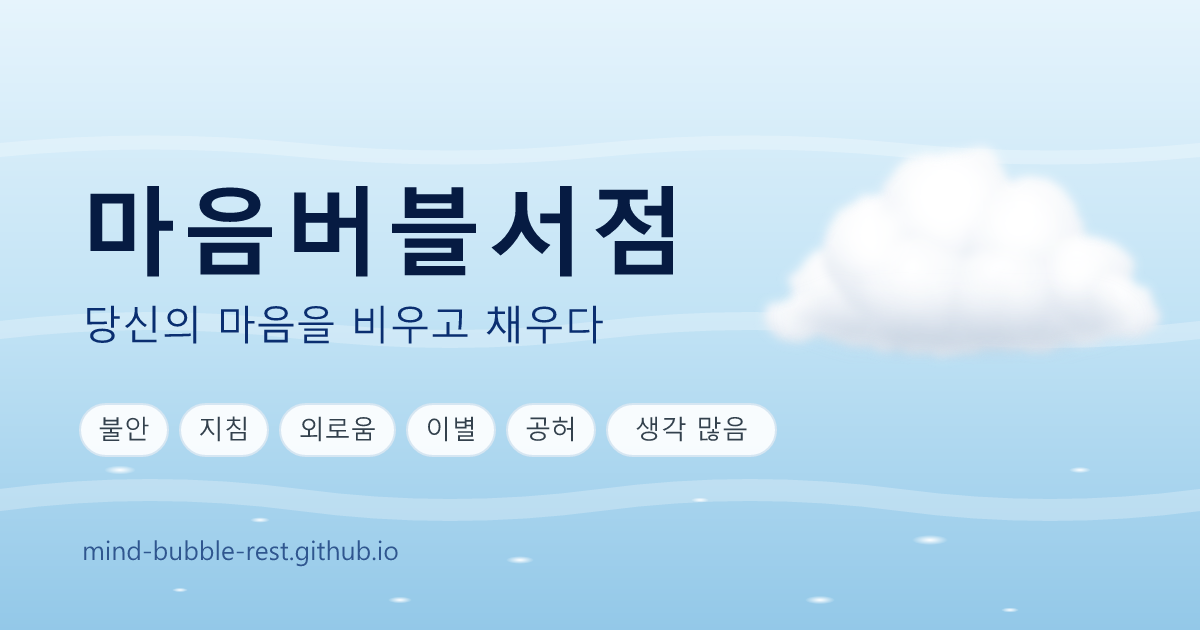
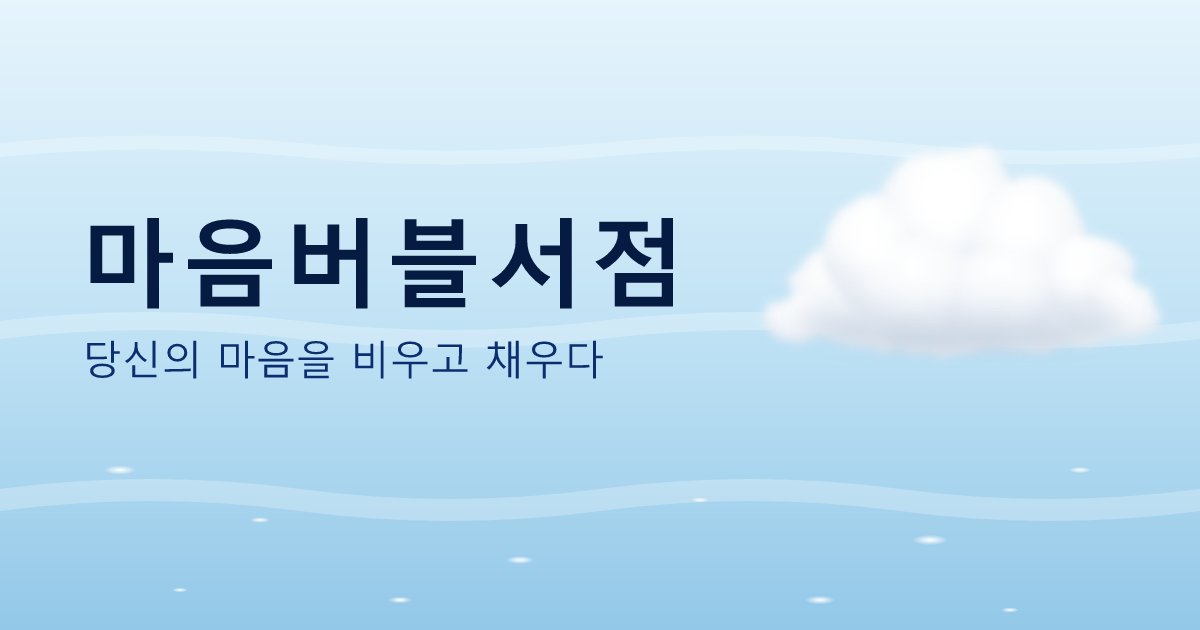
공유 썸네일에서 감정 키워드와 주소를 빼고 제목만 남김
- og-image: 제목·소제목·구름만, 제목을 가운데 쪽으로
- 메신저에 남은 예전 썸네일을 새로 받도록 이미지 주소에 ?v=2

Changed region(s): [[0.0617, 0.3016, 0.5858, 0.6032], [0.0617, 0.6333, 0.6475, 0.7238], [0.0617, 0.8444, 0.3392, 0.9048]]

diff --git a/감정책방.html b/감정책방.html
@@ -13,14 +13,14 @@
 <meta property="og:title" content="마음버블서점 - 당신의 마음을 비우고 채우다">
 <meta property="og:description" content="마음을 비우고, 원하는 만큼 채워가세요. 지금 마음에 맞는 책 세 권을 골라 드려요.">
 <meta property="og:url" content="https://mind-bubble-rest.github.io/">
-<meta property="og:image" content="https://mind-bubble-rest.github.io/og-image.png">
+<meta property="og:image" content="https://mind-bubble-rest.github.io/og-image.png?v=2">
 <meta property="og:image:width" content="1200">
 <meta property="og:image:height" content="630">
 <meta property="og:image:alt" content="마음버블서점 - 당신의 마음을 비우고 채우다. 푸른 강물 위 하얀 구름">
 <meta name="twitter:card" content="summary_large_image">
 <meta name="twitter:title" content="마음버블서점 - 당신의 마음을 비우고 채우다">
 <meta name="twitter:description" content="마음을 비우고, 원하는 만큼 채워가세요. 지금 마음에 맞는 책 세 권을 골라 드려요.">
-<meta name="twitter:image" content="https://mind-bubble-rest.github.io/og-image.png">
+<meta name="twitter:image" content="https://mind-bubble-rest.github.io/og-image.png?v=2">
 <meta name="claude:viewport-fit-sides" content="cover">
 <script>/* 저장해 둔 밝은/다크 모드를 화면이 그려지기 전에 적용해서 깜빡임을 막아요 */try{var mbT=localStorage.getItem("mb-theme");if(mbT==="light"||mbT==="dark")document.documentElement.dataset.theme=mbT;var mbZ=parseFloat(localStorage.getItem("mb-zoom"));if(mbZ>=1&&mbZ<=1.5)document.documentElement.style.setProperty("--zoom",mbZ)}catch(e){}</script>
 <link rel="stylesheet" href="https://fonts.googleapis.com/css2?family=Gowun+Dodum&family=Gaegu:wght@400;700&family=Jua&family=Noto+Sans+KR:wght@400;500;700&display=swap">

diff --git a/index.html b/index.html
@@ -18,14 +18,14 @@
 <meta property="og:title" content="마음버블서점 - 당신의 마음을 비우고 채우다">
 <meta property="og:description" content="마음을 비우고, 원하는 만큼 채워가세요. 지금 마음에 맞는 책 세 권을 골라 드려요.">
 <meta property="og:url" content="https://mind-bubble-rest.github.io/">
-<meta property="og:image" content="https://mind-bubble-rest.github.io/og-image.png">
+<meta property="og:image" content="https://mind-bubble-rest.github.io/og-image.png?v=2">
 <meta property="og:image:width" content="1200">
 <meta property="og:image:height" content="630">
 <meta property="og:image:alt" content="마음버블서점 - 당신의 마음을 비우고 채우다. 푸른 강물 위 하얀 구름">
 <meta name="twitter:card" content="summary_large_image">
 <meta name="twitter:title" content="마음버블서점 - 당신의 마음을 비우고 채우다">
 <meta name="twitter:description" content="마음을 비우고, 원하는 만큼 채워가세요. 지금 마음에 맞는 책 세 권을 골라 드려요.">
-<meta name="twitter:image" content="https://mind-bubble-rest.github.io/og-image.png">
+<meta name="twitter:image" content="https://mind-bubble-rest.github.io/og-image.png?v=2">
 <meta http-equiv="refresh" content="0; url=./%EA%B0%90%EC%A0%95%EC%B1%85%EB%B0%A9.html">
 <script>location.replace('./%EA%B0%90%EC%A0%95%EC%B1%85%EB%B0%A9.html' + location.hash);</script>
 </head>
